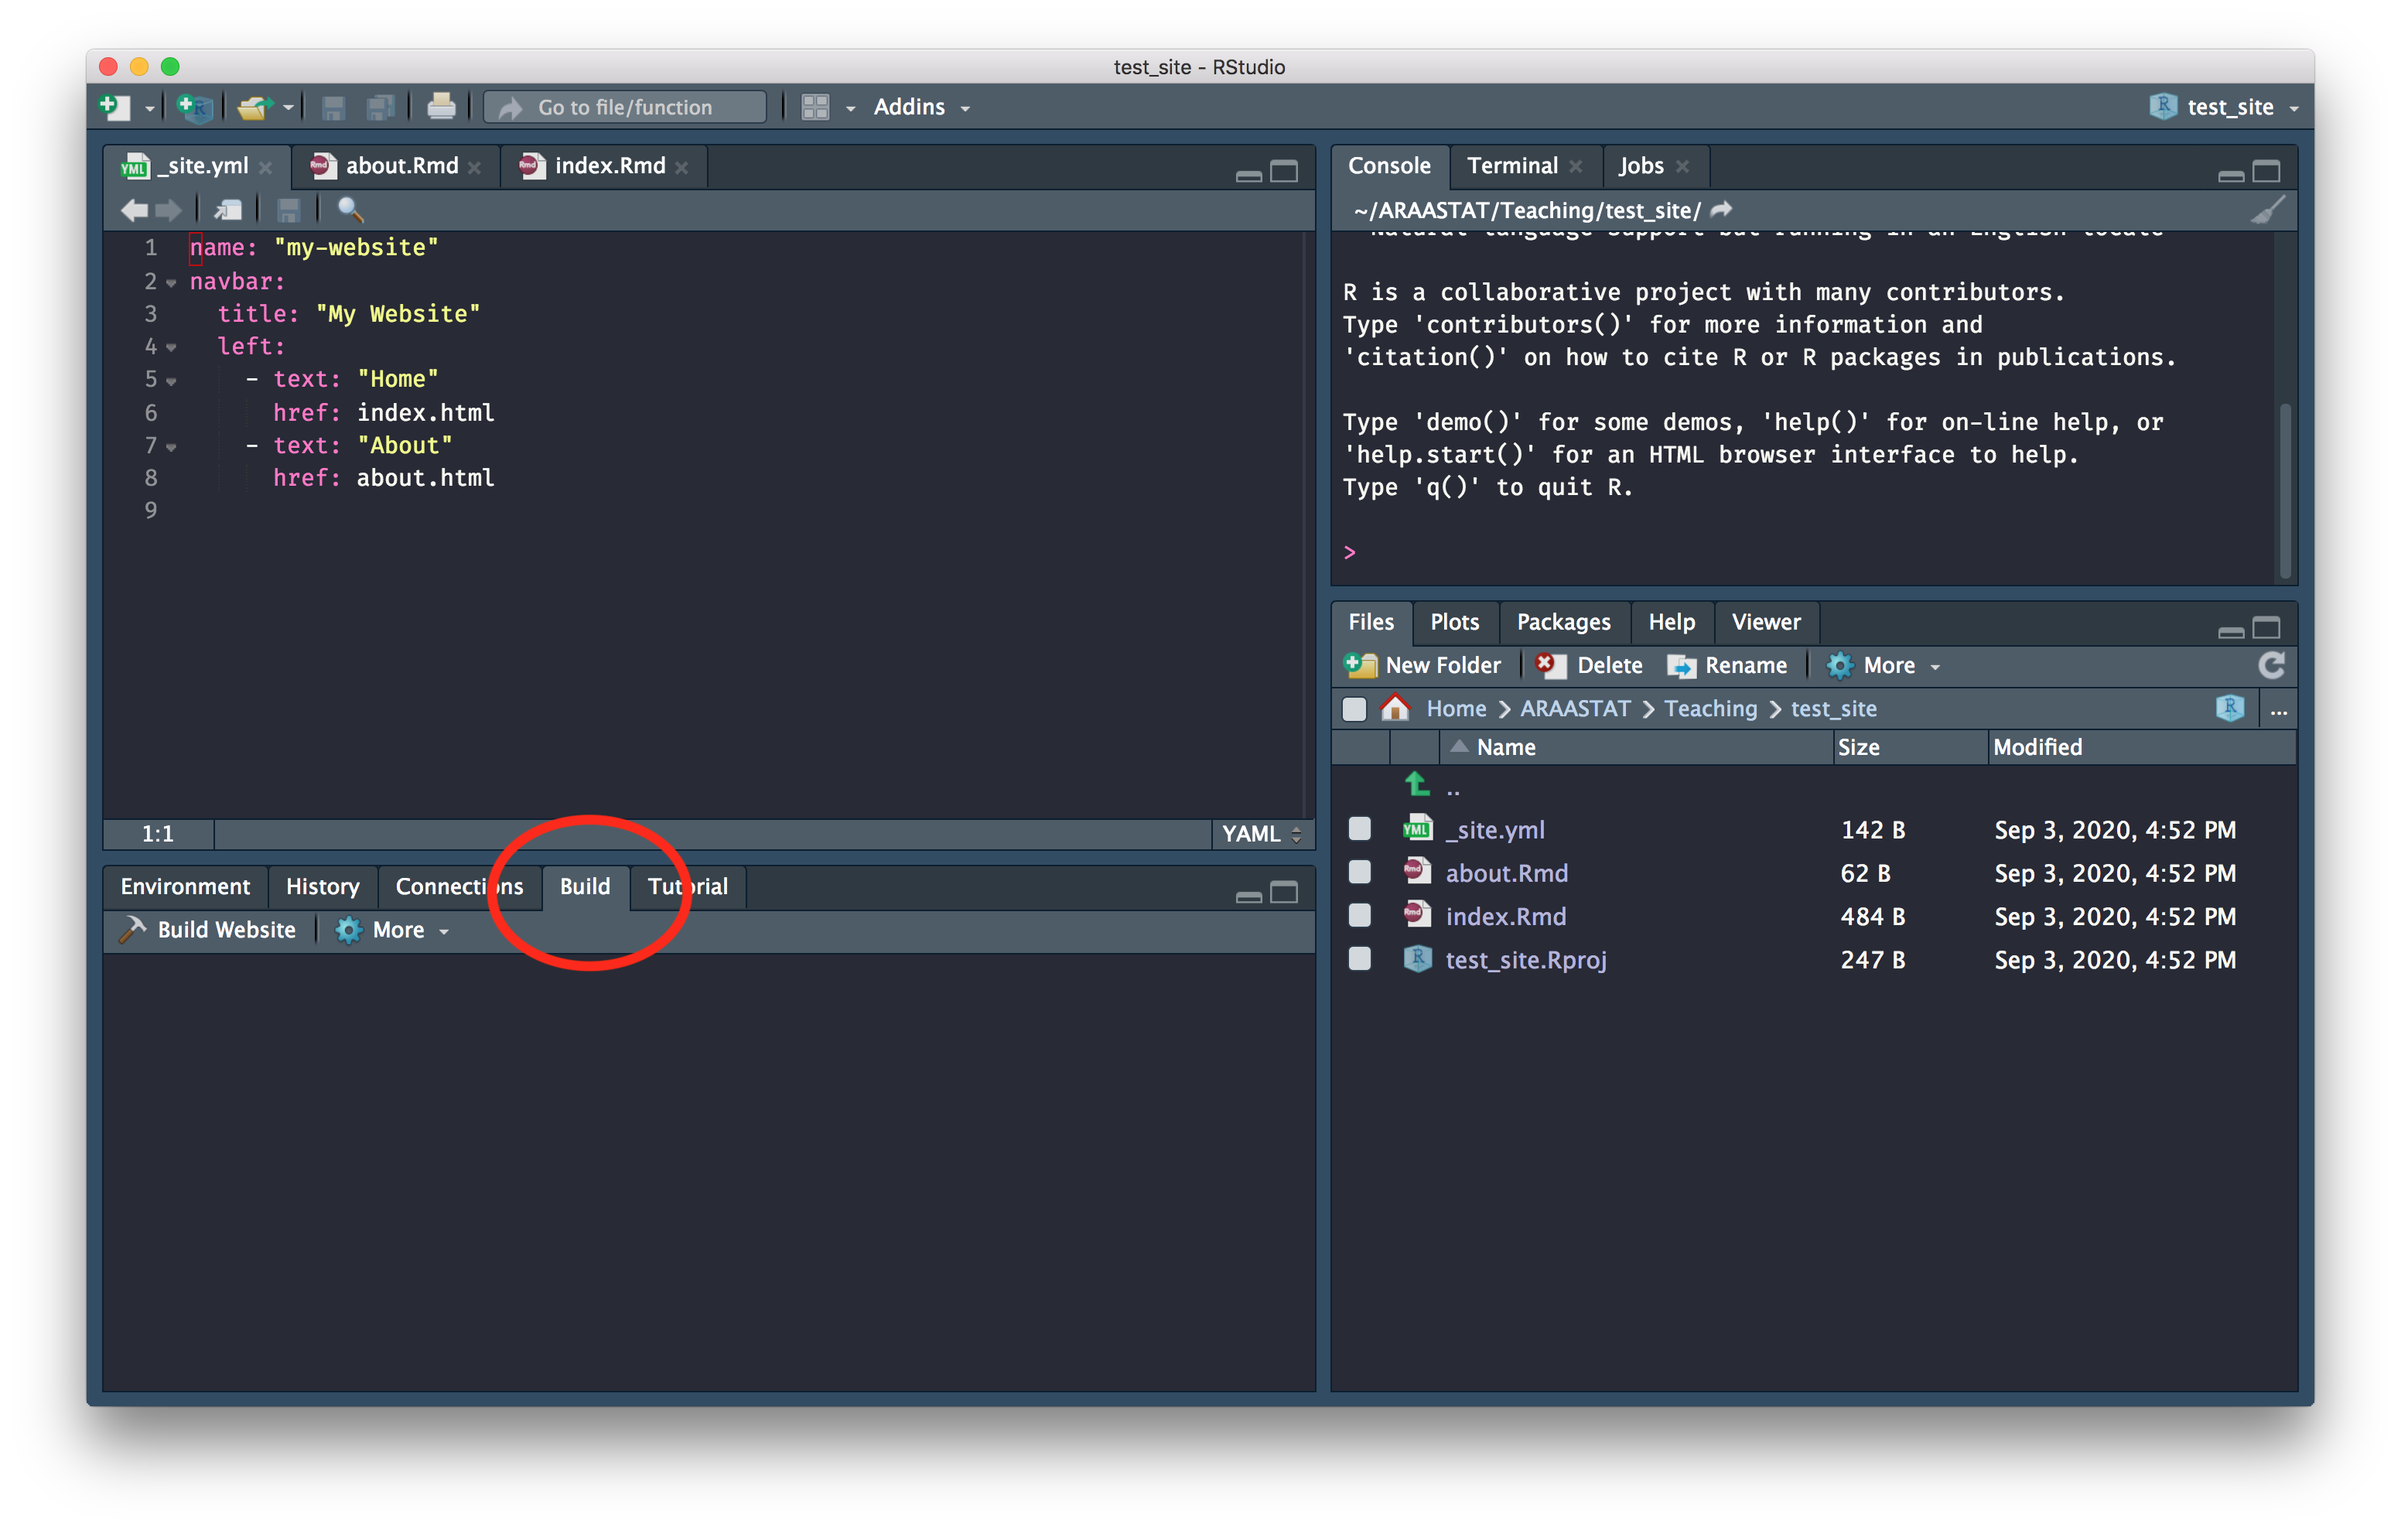
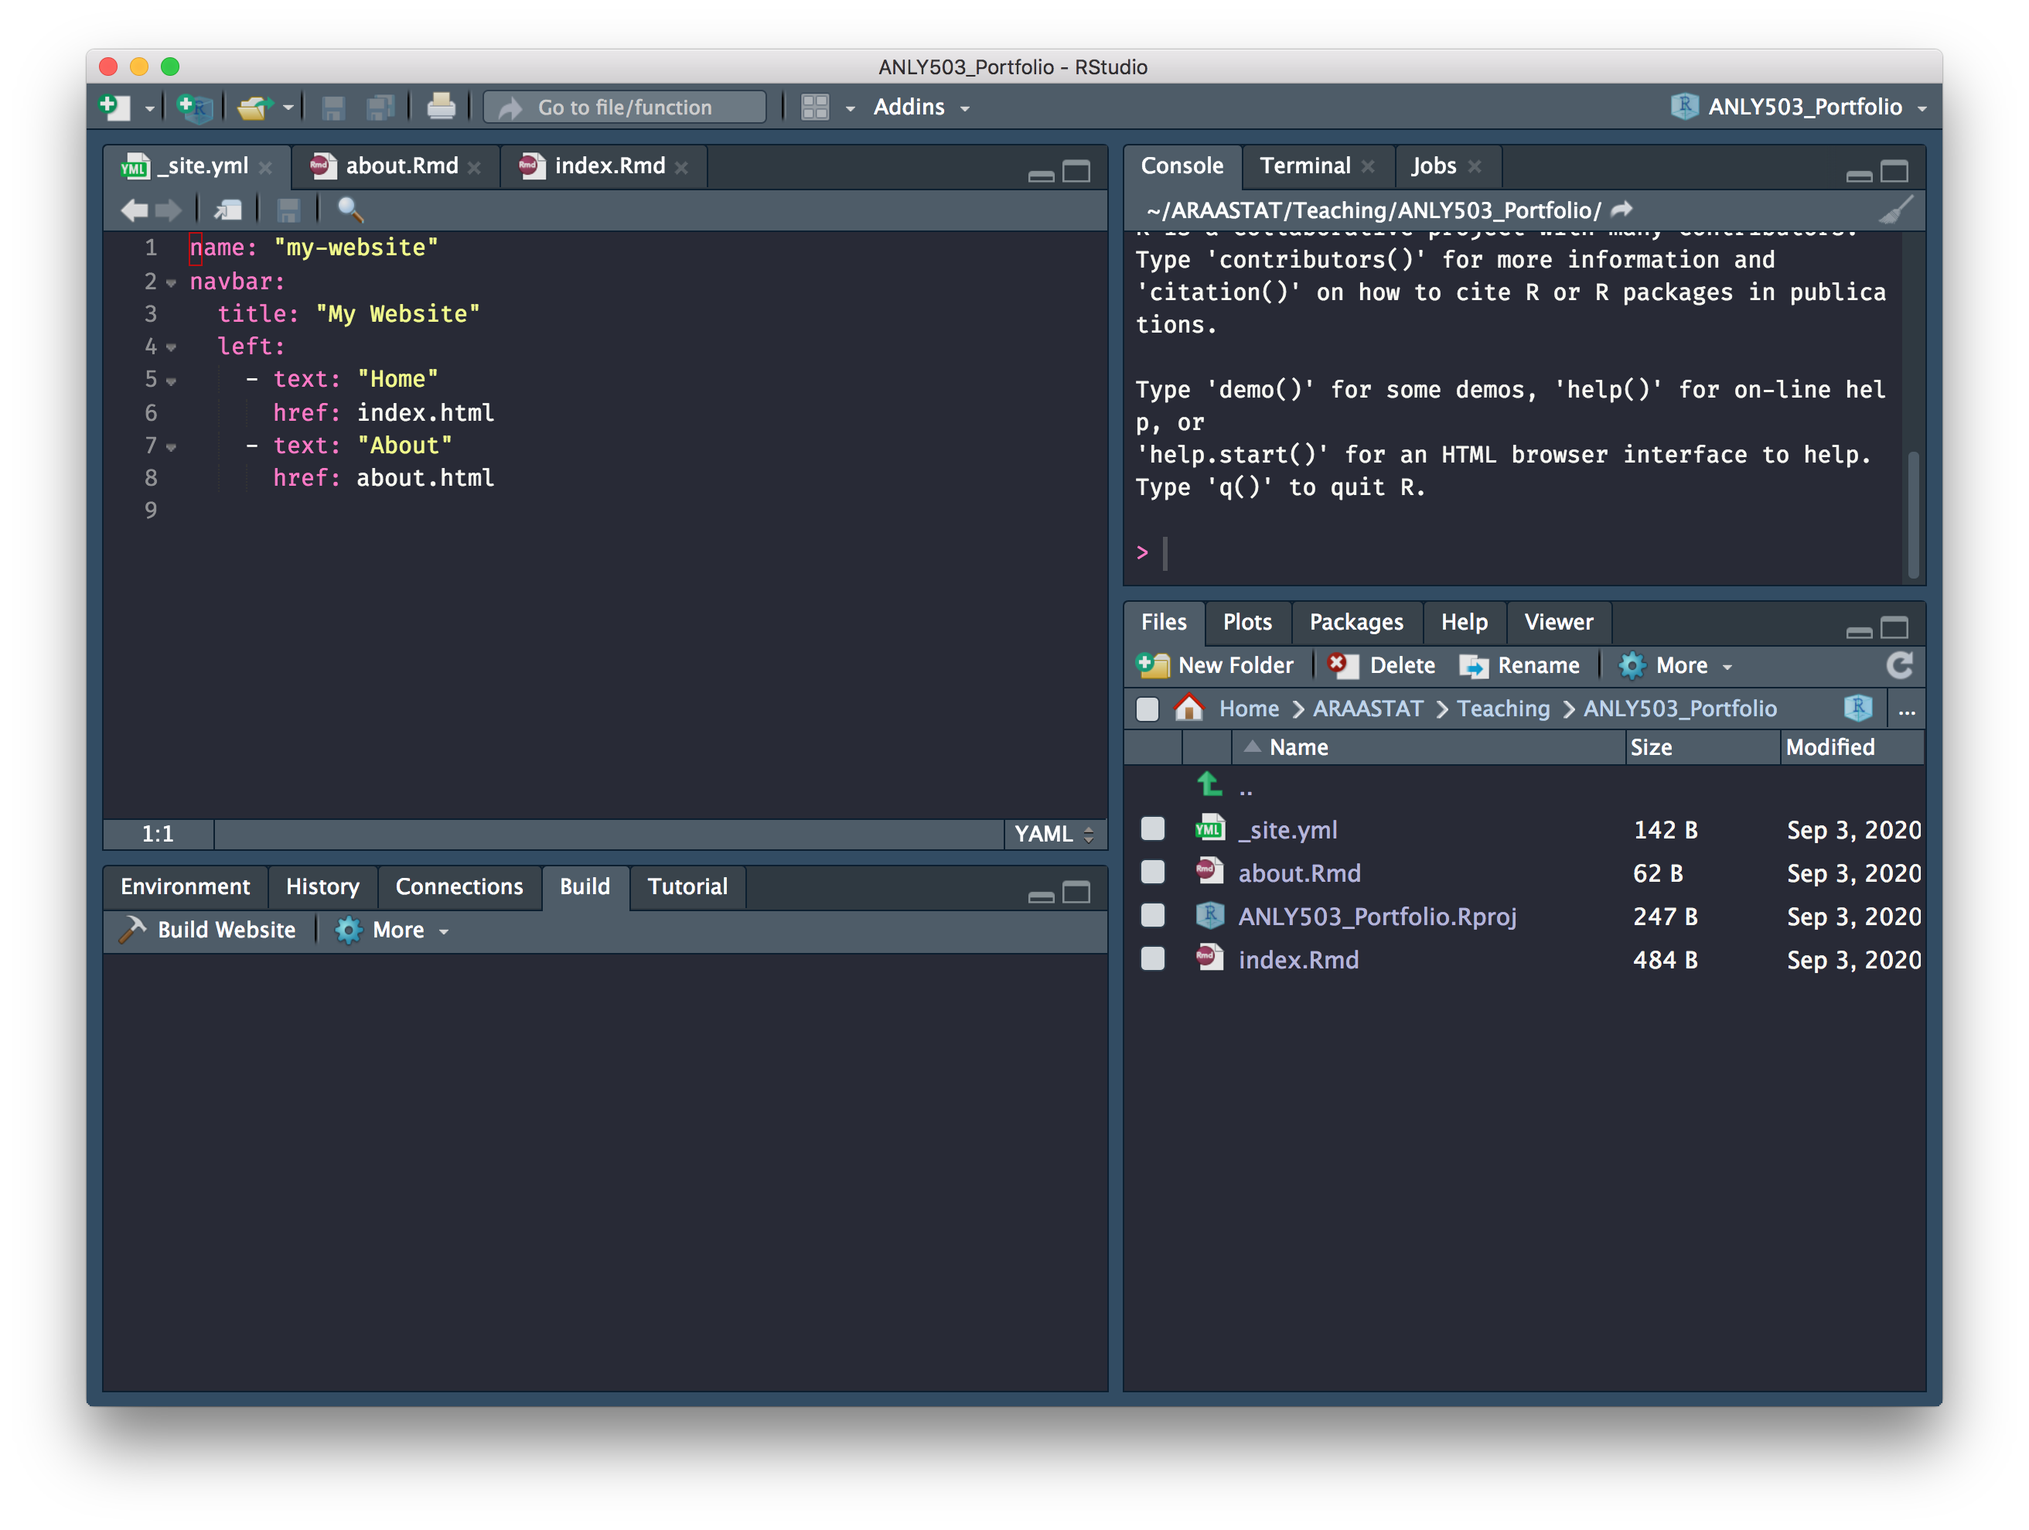
updated lab

Changed region(s): [[0.5, 0.0308, 0.9688, 0.9252], [0.0312, 0.0308, 0.4062, 0.9252], [0.4375, 0.0308, 0.5625, 0.0925]]

diff --git a/02/week02_lab.html b/02/week02_lab.html
@@ -284,6 +284,7 @@ class: center,middle,inverse
 
 ---
 
+
 ## Creating scaffolding using RStudio Projects
 
 RStudio Projects are a way to encapsulate particular projects in RStudio, so that 
@@ -300,6 +301,66 @@ R processes for each project.
 &lt;svg style="height:0.8em;top:.04em;position:relative;" viewBox="0 0 512 512"&gt;&lt;path d="M256 8C119.043 8 8 119.083 8 256c0 136.997 111.043 248 248 248s248-111.003 248-248C504 119.083 392.957 8 256 8zm0 110c23.196 0 42 18.804 42 42s-18.804 42-42 42-42-18.804-42-42 18.804-42 42-42zm56 254c0 6.627-5.373 12-12 12h-88c-6.627 0-12-5.373-12-12v-24c0-6.627 5.373-12 12-12h12v-64h-12c-6.627 0-12-5.373-12-12v-24c0-6.627 5.373-12 12-12h64c6.627 0 12 5.373 12 12v100h12c6.627 0 12 5.373 12 12v24z"/&gt;&lt;/svg&gt; https://support.rstudio.com/hc/en-us/articles/200526207-Using-Projects  
 &lt;svg style="height:0.8em;top:.04em;position:relative;" viewBox="0 0 512 512"&gt;&lt;path d="M256 8C119.043 8 8 119.083 8 256c0 136.997 111.043 248 248 248s248-111.003 248-248C504 119.083 392.957 8 256 8zm0 110c23.196 0 42 18.804 42 42s-18.804 42-42 42-42-18.804-42-42 18.804-42 42-42zm56 254c0 6.627-5.373 12-12 12h-88c-6.627 0-12-5.373-12-12v-24c0-6.627 5.373-12 12-12h12v-64h-12c-6.627 0-12-5.373-12-12v-24c0-6.627 5.373-12 12-12h64c6.627 0 12 5.373 12 12v100h12c6.627 0 12 5.373 12 12v24z"/&gt;&lt;/svg&gt; https://www.tidyverse.org/blog/2017/12/workflow-vs-script/  
 &lt;svg style="height:0.8em;top:.04em;position:relative;" viewBox="0 0 512 512"&gt;&lt;path d="M256 8C119.043 8 8 119.083 8 256c0 136.997 111.043 248 248 248s248-111.003 248-248C504 119.083 392.957 8 256 8zm0 110c23.196 0 42 18.804 42 42s-18.804 42-42 42-42-18.804-42-42 18.804-42 42-42zm56 254c0 6.627-5.373 12-12 12h-88c-6.627 0-12-5.373-12-12v-24c0-6.627 5.373-12 12-12h12v-64h-12c-6.627 0-12-5.373-12-12v-24c0-6.627 5.373-12 12-12h64c6.627 0 12 5.373 12 12v100h12c6.627 0 12 5.373 12 12v24z"/&gt;&lt;/svg&gt; https://towardsdatascience.com/the-gold-standard-of-data-science-project-management-13d68c9e85d6
+
+---
+class: middle, center
+
+# Starting from GitHub
+
+---
+
+## Setting up a repository in GitHub
+
++ In your GitHub, create a repository called .heatinline[ANLY503_Portfolio]
++ Add a README (makes cloning easier)
++ Clone this to your computer
+
+---
+class: middle, center
+
+# Making this repo a RStudio project
+
+---
+background-image: url(img/web1.png)
+background-size: 80%
+
+---
+background-image: url(img/ghp1_1.png)
+background-size: 80%
+
+---
+background-image: url(img/ghp1_2.png)
+background-size: 80%
+
+
+---
+
+## Bringing in a template
+
+Run the following code in your RStudio Console
+
+.pull-left[
+
+```r
+d &lt;- dir(system.file('rmd/site', 
+                  package='rmarkdown'), 
+        full.names=TRUE)
+for(f in d){
+  file.copy(f, '.')
+}
+```
+
+You should see these files  
+(with a different .Rproj file)
+]
+.pull-right[
+![](img/templ.png)
+]
+
+---
+class: middle, center
+
+# Starting with RStudio
 
 ---
 background-image: url(img/web1.png)
@@ -328,153 +389,11 @@ background-size: 75%
 .left-column30[
 
 ```
-~/ARAASTAT/Teaching/test_site
-├── _site
-│   ├── about.html
-│   ├── index.html
-│   └── site_libs
-│       ├── bootstrap-3.3.5
-│       │   ├── css
-│       │   │   ├── bootstrap-theme.css
-│       │   │   ├── bootstrap-theme.css.map
-│       │   │   ├── bootstrap-theme.min.css
-│       │   │   ├── bootstrap.css
-│       │   │   ├── bootstrap.css.map
-│       │   │   ├── bootstrap.min.css
-│       │   │   ├── cerulean.min.css
-│       │   │   ├── cosmo.min.css
-│       │   │   ├── darkly.min.css
-│       │   │   ├── flatly.min.css
-│       │   │   ├── fonts
-│       │   │   │   ├── Lato.ttf
-│       │   │   │   ├── LatoBold.ttf
-│       │   │   │   ├── LatoItalic.ttf
-│       │   │   │   ├── NewsCycle.ttf
-│       │   │   │   ├── NewsCycleBold.ttf
-│       │   │   │   ├── OpenSans.ttf
-│       │   │   │   ├── OpenSansBold.ttf
-│       │   │   │   ├── OpenSansBoldItalic.ttf
-│       │   │   │   ├── OpenSansItalic.ttf
-│       │   │   │   ├── OpenSansLight.ttf
-│       │   │   │   ├── OpenSansLightItalic.ttf
-│       │   │   │   ├── Raleway.ttf
-│       │   │   │   ├── RalewayBold.ttf
-│       │   │   │   ├── Roboto.ttf
-│       │   │   │   ├── RobotoBold.ttf
-│       │   │   │   ├── RobotoLight.ttf
-│       │   │   │   ├── RobotoMedium.ttf
-│       │   │   │   ├── SourceSansPro.ttf
-│       │   │   │   ├── SourceSansProBold.ttf
-│       │   │   │   ├── SourceSansProItalic.ttf
-│       │   │   │   ├── SourceSansProLight.ttf
-│       │   │   │   └── Ubuntu.ttf
-│       │   │   ├── journal.min.css
-│       │   │   ├── lumen.min.css
-│       │   │   ├── paper.min.css
-│       │   │   ├── readable.min.css
-│       │   │   ├── sandstone.min.css
-│       │   │   ├── simplex.min.css
-│       │   │   ├── spacelab.min.css
-│       │   │   ├── united.min.css
-│       │   │   └── yeti.min.css
-│       │   ├── fonts
-│       │   │   ├── glyphicons-halflings-regular.eot
-│       │   │   ├── glyphicons-halflings-regular.svg
-│       │   │   ├── glyphicons-halflings-regular.ttf
-│       │   │   ├── glyphicons-halflings-regular.woff
-│       │   │   └── glyphicons-halflings-regular.woff2
-│       │   ├── js
-│       │   │   ├── bootstrap.js
-│       │   │   ├── bootstrap.min.js
-│       │   │   └── npm.js
-│       │   └── shim
-│       │       ├── html5shiv.min.js
-│       │       └── respond.min.js
-│       ├── highlightjs-9.12.0
-│       │   ├── default.css
-│       │   ├── highlight.js
-│       │   └── textmate.css
-│       ├── jquery-1.11.3
-│       │   └── jquery.min.js
-│       └── navigation-1.1
-│           ├── codefolding.js
-│           ├── sourceembed.js
-│           └── tabsets.js
+~/ARAASTAT/Teaching/ANLY503_Portfolio
+├── ANLY503_Portfolio.Rproj
 ├── _site.yml
 ├── about.Rmd
-├── docs
-│   ├── about.html
-│   ├── index.html
-│   └── site_libs
-│       ├── bootstrap-3.3.5
-│       │   ├── css
-│       │   │   ├── bootstrap-theme.css
-│       │   │   ├── bootstrap-theme.css.map
-│       │   │   ├── bootstrap-theme.min.css
-│       │   │   ├── bootstrap.css
-│       │   │   ├── bootstrap.css.map
-│       │   │   ├── bootstrap.min.css
-│       │   │   ├── cerulean.min.css
-│       │   │   ├── cosmo.min.css
-│       │   │   ├── darkly.min.css
-│       │   │   ├── flatly.min.css
-│       │   │   ├── fonts
-│       │   │   │   ├── Lato.ttf
-│       │   │   │   ├── LatoBold.ttf
-│       │   │   │   ├── LatoItalic.ttf
-│       │   │   │   ├── NewsCycle.ttf
-│       │   │   │   ├── NewsCycleBold.ttf
-│       │   │   │   ├── OpenSans.ttf
-│       │   │   │   ├── OpenSansBold.ttf
-│       │   │   │   ├── OpenSansBoldItalic.ttf
-│       │   │   │   ├── OpenSansItalic.ttf
-│       │   │   │   ├── OpenSansLight.ttf
-│       │   │   │   ├── OpenSansLightItalic.ttf
-│       │   │   │   ├── Raleway.ttf
-│       │   │   │   ├── RalewayBold.ttf
-│       │   │   │   ├── Roboto.ttf
-│       │   │   │   ├── RobotoBold.ttf
-│       │   │   │   ├── RobotoLight.ttf
-│       │   │   │   ├── RobotoMedium.ttf
-│       │   │   │   ├── SourceSansPro.ttf
-│       │   │   │   ├── SourceSansProBold.ttf
-│       │   │   │   ├── SourceSansProItalic.ttf
-│       │   │   │   ├── SourceSansProLight.ttf
-│       │   │   │   └── Ubuntu.ttf
-│       │   │   ├── journal.min.css
-│       │   │   ├── lumen.min.css
-│       │   │   ├── paper.min.css
-│       │   │   ├── readable.min.css
-│       │   │   ├── sandstone.min.css
-│       │   │   ├── simplex.min.css
-│       │   │   ├── spacelab.min.css
-│       │   │   ├── united.min.css
-│       │   │   └── yeti.min.css
-│       │   ├── fonts
-│       │   │   ├── glyphicons-halflings-regular.eot
-│       │   │   ├── glyphicons-halflings-regular.svg
-│       │   │   ├── glyphicons-halflings-regular.ttf
-│       │   │   ├── glyphicons-halflings-regular.woff
-│       │   │   └── glyphicons-halflings-regular.woff2
-│       │   ├── js
-│       │   │   ├── bootstrap.js
-│       │   │   ├── bootstrap.min.js
-│       │   │   └── npm.js
-│       │   └── shim
-│       │       ├── html5shiv.min.js
-│       │       └── respond.min.js
-│       ├── highlightjs-9.12.0
-│       │   ├── default.css
-│       │   ├── highlight.js
-│       │   └── textmate.css
-│       ├── jquery-1.11.3
-│       │   └── jquery.min.js
-│       └── navigation-1.1
-│           ├── codefolding.js
-│           ├── sourceembed.js
-│           └── tabsets.js
-├── index.Rmd
-└── test_site.Rproj
+└── index.Rmd
 ```
 ]
 .right-column70[
@@ -559,13 +478,13 @@ output:
 + https://bookdown.org/yihui/rmarkdown/rmarkdown-site.html
 + https://www.emilyzabor.com/tutorials/rmarkdown_websites_tutorial.html &lt;svg style="height:0.8em;top:.04em;position:relative;" viewBox="0 0 512 512"&gt;&lt;path d="M505 174.8l-39.6-39.6c-9.4-9.4-24.6-9.4-33.9 0L192 374.7 80.6 263.2c-9.4-9.4-24.6-9.4-33.9 0L7 302.9c-9.4 9.4-9.4 24.6 0 34L175 505c9.4 9.4 24.6 9.4 33.9 0l296-296.2c9.4-9.5 9.4-24.7.1-34zm-324.3 106c6.2 6.3 16.4 6.3 22.6 0l208-208.2c6.2-6.3 6.2-16.4 0-22.6L366.1 4.7c-6.2-6.3-16.4-6.3-22.6 0L192 156.2l-55.4-55.5c-6.2-6.3-16.4-6.3-22.6 0L68.7 146c-6.2 6.3-6.2 16.4 0 22.6l112 112.2z"/&gt;&lt;/svg&gt;
 ---
-class: middle,center, inverse
+class: middle,center
 
 # Deploying on Github
 
 ---
 
-## Git/Github setup
+## Git/Github setup (if you started from RStudio)
 
 + Open the RStudio project for the website we created
 + Install the package **usethis** in R (`install.packages("usethis")`)
@@ -575,7 +494,11 @@ class: middle,center, inverse
     + If the Push button is greyed out, open a terminal in RStudio and type `git push -u origin master`, and then restart RStudio
 
 ---
+class: middle, center, inverse
 
+# Setting up Github Pages
+
+---
 ## Setup for deploying to Github Pages
 
 + Create a new folder called .heatinline[`docs`]
